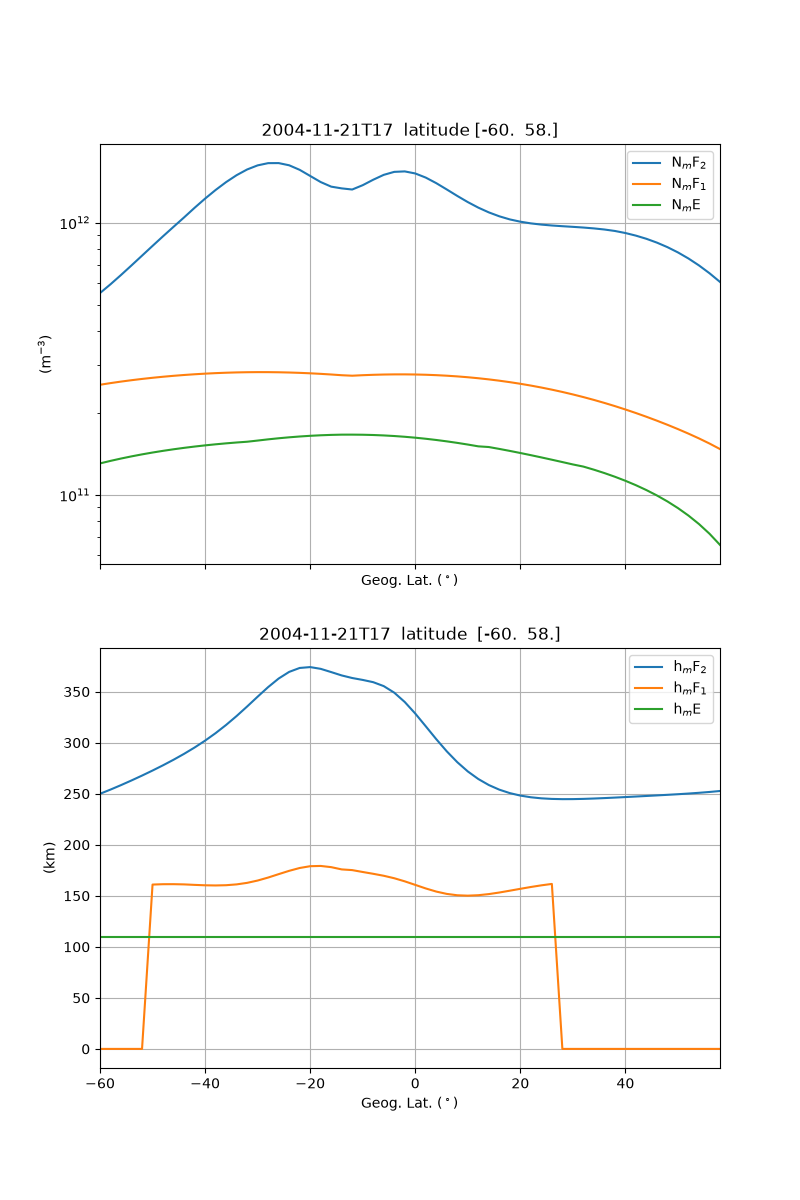
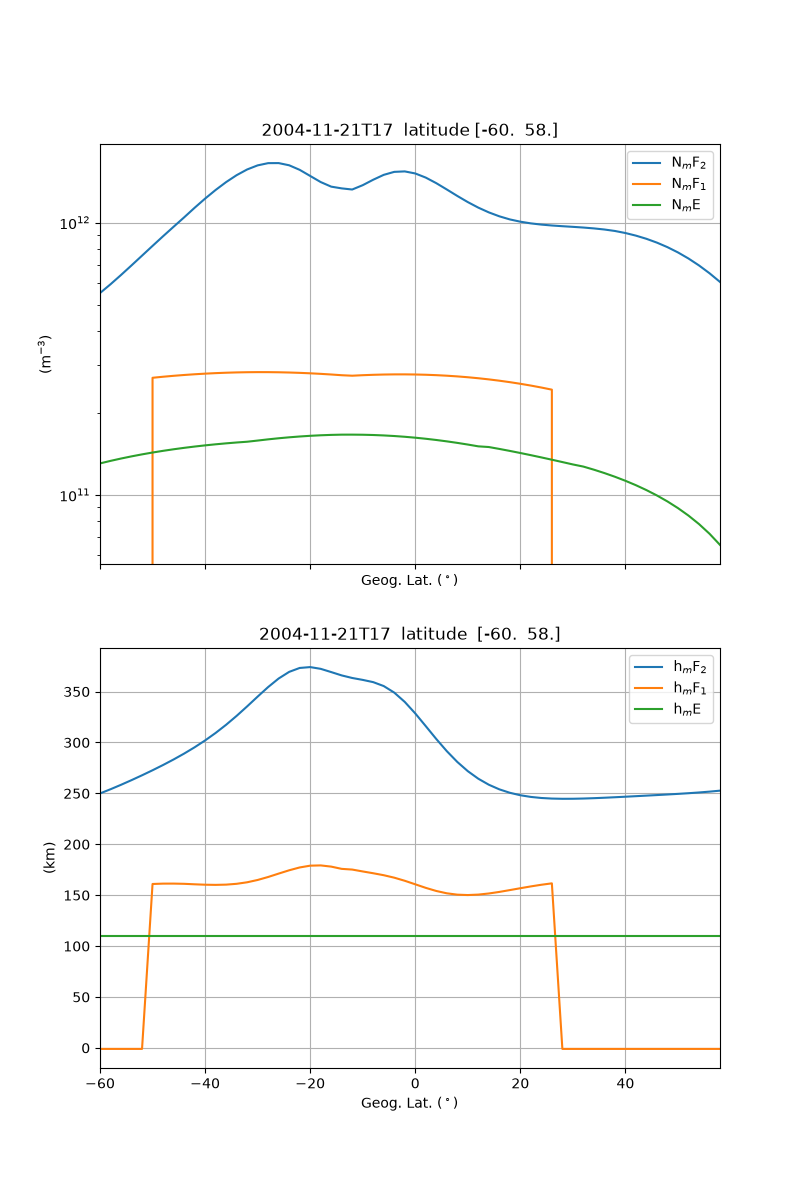
Restore if(f1reg) guard on OARR(3:4): NmF1/hmF1 are -1 when no F1 layer
Upstream IRI-2026 (irisub.for 2026.04, lines 2590-2591) writes OARR(3)=NMF1 and
OARR(4)=XHMF1 unconditionally, whereas IRI-2020 guarded both with if(f1reg).
NMF1 is set from the Ducharme foF1 model at every daytime hour before the F1
occurrence decision and is never reset when the layer is omitted (label 9427),
so IRI-2026 reported NmF1 > 0 together with hmF1 = 0 whenever the Scotto
occurrence probability was below 0.5 or the NmE/NmF2/valley-top checks failed.
The Ne(h) profile and hmF1 were not affected.

- irisub.for: if(f1reg) restored on both lines; patch/irisub.patch regenerated
  against the pristine upstream file (3 hunks)
- figures: README time and latitude figures regenerated (altitude and TEC
  figures unchanged)
- README: corrected the note on OARR(3:4) and documented the new patch hunk
- comparison rerun over 560 cases: all statistics unchanged; F1 layer count
  iri2020 66 vs iri2026 59 (was 280 with the unconditional output)

diff --git a/scripts/compare_iri2020.py b/scripts/compare_iri2020.py
@@ -86,7 +86,7 @@ The remaining differences are in the *shape* of the Ne profile and follow from c
 Change-log lines quoted from the IRI-2026 `irisub.for` header:
 
 * Bottomside between the E and F2 peaks (largest differences at 150-250 km, F1/valley region;
-  NmF1 > 0 in 66 cases with iri2020 vs 280 with iri2026):
+  the F1 layer occurrence count is reported above the Justification section):
   * `C 2020.24 11/29/24 B1.GE.0.6 changed to B1.GE.1.2 ........ B. Reid`
   * `C 2020.24 11/29/24 Avoid HF1.lt.hst ...................... B. Reid`
   * `C 2020.24 11/29/24 Changed HZ to 2*(HF1+hst)/3`

diff --git a/README.md b/README.md
@@ -129,7 +129,10 @@ of the Fortran sources:
   B1 limit 1.2, `HZ = 2(HF1+hst)/3`, F1 layer omitted if `NmF1 < 1.2 NmE` or
   `NmF1 > 0.8 NmF2` or `NmF1 < XE2(HEF)`, Ne(h) capped at NmF2 above hmF2. These change the
   electron density between the E and F2 peaks in some conditions.
-* Fill value -1 for unused `OARR` slots; `OARR(3:4)` (NmF1, hmF1) are 0 when no F1 layer.
+* Fill value -1 for unused `OARR` slots. Upstream IRI-2026 writes `OARR(3)` (NmF1) at every
+  daytime hour, even when the F1 layer has been omitted from the profile (F1 occurrence
+  probability below 0.5 or the NmE/NmF2 consistency checks); this package restores the
+  iri2020 behaviour in `patch/irisub.patch`, so NmF1 and hmF1 are -1 when there is no F1 layer.
 
 The comparison of this package with iri2020 over 2000-2019 is documented in
 [docs/comparison_iri2020.md](./docs/comparison_iri2020.md) and
@@ -157,8 +160,10 @@ range of `ig_rz.dat` raises `subprocess.CalledProcessError` from the driver's
 
 ## Local modifications of the Fortran sources
 
-`patch/irisub.patch` stores foF2 in `OARR(100)` (as iri2020 did) and initialises the bubble
-probability when the IBP model is skipped. `patch/stop.patch` replaces silent messages on
+`patch/irisub.patch` stores foF2 in `OARR(100)` (as iri2020 did), initialises the bubble
+probability when the IBP model is skipped, and writes NmF1 and hmF1 to `OARR(3:4)` only when
+an F1 layer is present (`if(f1reg)`, as in IRI-2020; upstream IRI-2026 reports the foF1-model
+value even when the layer is omitted, so NmF1 and hmF1 were inconsistent). `patch/stop.patch` replaces silent messages on
 missing data files or an out-of-range date with `error stop`, and sends messages to stderr.
 Everything else is the pristine IRI-2026 release; `irirtam.for` (real-time IRI) is not
 included because nothing in the model calls it.

diff --git a/docs/comparison_iri2020.md b/docs/comparison_iri2020.md
@@ -1,6 +1,6 @@
 # Comparison of iri2026 with iri2020
 
-Generated 2026-09-17 10:30 by `scripts/compare_iri2020.py` (run time 0.0 min).
+Generated 2026-09-17 11:08 by `scripts/compare_iri2020.py` (run time 19.0 min).
 
 Reference: `iri2020` version 1.0.0  
 This package: `iri2026` version 2026.0.0
@@ -64,7 +64,7 @@ are skipped.
 | (-30.0, 20.0) | 4.38 / 27.3 / 231 | 11.5 / 42 / 73.4 | 3.41 / 10.5 / 12.4 |
 | (-76.8, 166.7) | 0 / 15.8 / 190 | 0 / 0.00121 / 0.00358 | 1.28 / 4 / 4.66 |
 
-F1 layer present (NmF1 > 0): iri2020 66 cases, iri2026 280 cases.
+F1 layer present (NmF1 > 0): iri2020 66 cases, iri2026 59 cases.
 
 ## Justification of the relaxed thresholds
 
